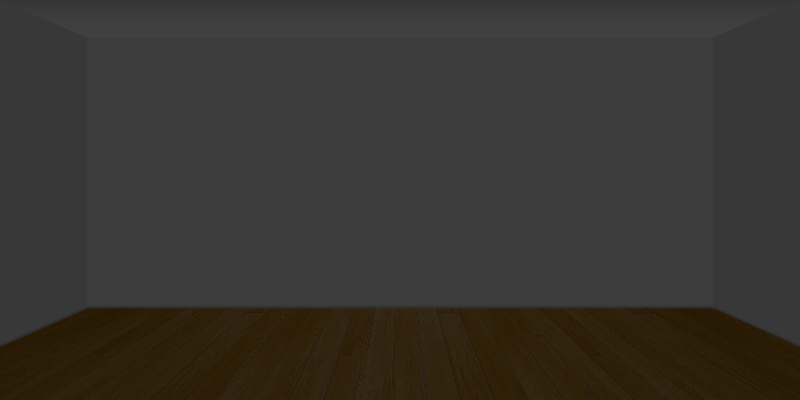
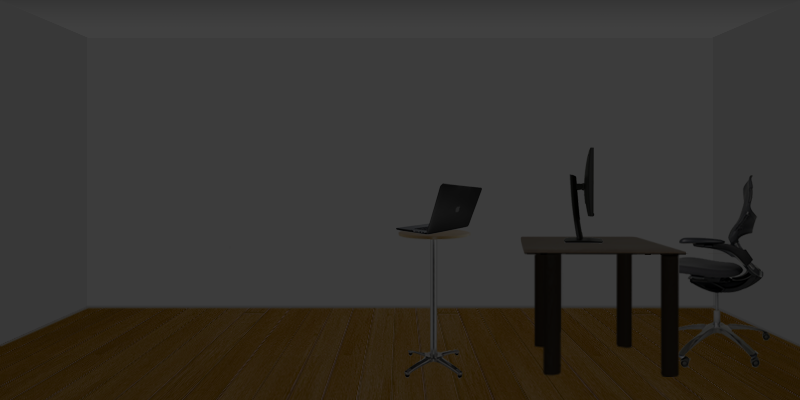
Re-create 3rd room and add objects inside

diff --git a/lib/confetti.js b/lib/confetti.js
@@ -1,67 +1,67 @@
-let canvas = document.getElementById('confetti');
+// let canvas = document.getElementById('confetti');
 
-canvas.setAttribute("width", "800");
-canvas.setAttribute("height", "800");
+// canvas.setAttribute("width", "800");
+// canvas.setAttribute("height", "800");
 
-let ctx = canvas.getContext('2d');
-let pieces = [];
-let numPieces = 50;
-let last = Date.now();
+// let ctx = canvas.getContext('2d');
+// let pieces = [];
+// let numPieces = 50;
+// let last = Date.now();
 
-function randomColor() {
-    let colors = ['#f00', '#0f0', '#00f', '#0ff', '#f0f'];
-    return colors[Math.floor(Math.random() * colors.length)];
-}
+// function randomColor() {
+//     let colors = ['#f00', '#0f0', '#00f', '#0ff', '#f0f'];
+//     return colors[Math.floor(Math.random() * colors.length)];
+// }
 
-function update () {
-    let now = Date.now(), dt = now - last;
+// function update () {
+//     let now = Date.now(), dt = now - last;
 
-    for (let i = pieces.length - 1; i >= 0; i--) {
-        let p = pieces[i];
+//     for (let i = pieces.length - 1; i >= 0; i--) {
+//         let p = pieces[i];
 
-        if (p.y > canvas.height) {
-            pieces.splice(i, 1);
-            continue;
-        }
-        p.y += gravity;
-        p.rotation += p.rotationSpeed;
-    }
+//         if (p.y > canvas.height) {
+//             pieces.splice(i, 1);
+//             continue;
+//         }
+//         p.y += gravity;
+//         p.rotation += p.rotationSpeed;
+//     }
 
-    while (pieces.length < numPieces) {
-        pieces.push(new Piece(Math.random() * canvas.width, -20));
-    }
+//     while (pieces.length < numPieces) {
+//         pieces.push(new Piece(Math.random() * canvas.width, -20));
+//     }
 
-    last = now;
-    setTimeout(update, 1);
-}
+//     last = now;
+//     setTimeout(update, 1);
+// }
 
-function draw () {
-    ctx.clearRect(0, 0, canvas.width, canvas.height);
+// function draw () {
+//     ctx.clearRect(0, 0, canvas.width, canvas.height);
 
-    pieces.forEach(function (p) {
-        ctx.save();
-        ctx.fillStyle = p.color;
-        ctx.translate(p.x + p.size / 2, p.y + p.size / 2); // go to center of the piece
-        ctx.rotate(p.rotation); // rotate 
-        ctx.fillRect(-p.size / 2, -p.size / 2, p.size / 2, p.size / 2); // reposition around center of rotation
-        ctx.restore();
-    });
-    requestAnimationFrame(draw);
-}
+//     pieces.forEach(function (p) {
+//         ctx.save();
+//         ctx.fillStyle = p.color;
+//         ctx.translate(p.x + p.size / 2, p.y + p.size / 2); // go to center of the piece
+//         ctx.rotate(p.rotation); // rotate 
+//         ctx.fillRect(-p.size / 2, -p.size / 2, p.size / 2, p.size / 2); // reposition around center of rotation
+//         ctx.restore();
+//     });
+//     requestAnimationFrame(draw);
+// }
 
-function Piece (x, y) {
-    this.x = x;
-    this.y = y;
-    this.size = (Math.random() * 0.5 * 0.75) * 15;
-    this.gravity = (Math.random() * 0.5 * 0.75) * 0.1; // how fast it falls
-    this.rotation = (Math.PI * 2) * Math.random();
-    this.rotationSpeed = (Math.PI * 2) * Math.random() * 0.0005;
-    this.color = randomColor();
-}
+// function Piece (x, y) {
+//     this.x = x;
+//     this.y = y;
+//     this.size = (Math.random() * 0.5 * 0.75) * 15;
+//     this.gravity = (Math.random() * 0.5 * 0.75) * 0.1; // how fast it falls
+//     this.rotation = (Math.PI * 2) * Math.random();
+//     this.rotationSpeed = (Math.PI * 2) * Math.random() * 0.0005;
+//     this.color = randomColor();
+// }
 
-while (pieces.length < numPieces) {
-    pieces.push(new Piece(Math.random() * canvas.width, Math.random() * canvas.height));
-}
+// while (pieces.length < numPieces) {
+//     pieces.push(new Piece(Math.random() * canvas.width, Math.random() * canvas.height));
+// }
 
-update();
-draw();
+// update();
+// draw();

diff --git a/lib/items.js b/lib/items.js
@@ -1,15 +1,3 @@
-
-// function clock() {
-//     let mytime = new Date(2019, 0, 1, 03, 55, 01, 567);
-//     let minutes = mytime.getMinutes();
-//     let hours = mytime.getHours();
-//     let currentTime = "0" + hours + ":" + minutes;
-
-//     document.getElementById("clock").firstChild.nodeValue = currentTime;
-
-// }
-// setInterval(clock);
-
 function mouse() {
     let modal = document.getElementById('mouseModal');
     let close = document.getElementsByClassName("close")[1];
@@ -17,6 +5,31 @@ function mouse() {
     let button = document.getElementById("mouse-close-button");
 
     mouse.onclick = function () {
+        modal.style.display = "block";
+    };
+
+    close.onclick = function () {
+        modal.style.display = "none";
+    };
+
+    button.onclick = function () {
+        modal.style.display = "none";
+    };
+
+    window.onclick = function (event) {
+        if (event.target === modal) {
+            modal.style.display = "none";
+        }
+    };
+}
+
+function projector() {
+    let modal = document.getElementById('projectorModal');
+    let close = document.getElementsByClassName("close")[2];
+    let projector = document.getElementById("projector");
+    let button = document.getElementById("projector-close-button");
+
+    projector.onclick = function () {
         modal.style.display = "block";
     };
 

diff --git a/index.html b/index.html
@@ -114,8 +114,23 @@
         <button id="mouse-close-button">Got it!</button>
     </div>
 
-
-
+    <img id="projector" class="hidden" src="images/projector.png" onclick="projector()">
+    <div id="projectorModal" onclick="projector()">
+        <div class="projector-content">
+            <div class="close">&times;</div>
+            <p class="code-text">
+                * This function duplicateLetters(string), takes in a phrase, `string` and returns <br />
+                all the duplicate letters that appear in the `string`. <br />
+            </p>
+            <p class="code-question">
+                def duplicateLetters(string)  <br />
+                &nbsp;&nbsp;&nbsp; new_str = "" <br />
+                end<br />
+                duplicateLetters("memo: we do not make apps"); <br />
+            </p>
+        </div>
+        <button id="projector-close-button">Got it!</button>
+    </div>
    
 </body>
 </html>

diff --git a/lib/rooms.js b/lib/rooms.js
@@ -7,7 +7,7 @@ function checkRoom() {
     let room = document.getElementById("roomChange");
     let mouse = document.getElementById("mouse");
     let solve = document.getElementById('solveModal');
-    // let lock = document.getElementById("lock");
+    let projector = document.getElementById("projector");
 
     if ((roomType === "light") && (room.src.includes(rooms[1].slice(1, rooms[1].length)))) {
         mouse.className = "";
@@ -17,11 +17,11 @@ function checkRoom() {
         solve.className = "";
     }
 
-    // if ((roomType === "light") && (room.src.includes(rooms[2].slice(1, rooms[2].length)))) {
-    //     lock.className = "";
-    // } else {
-    //     lock.className = "hidden";
-    // }
+    if ((roomType !== "light") && (room.src.includes(rooms[2].slice(1, rooms[2].length)))) {
+        projector.className = "";
+    } else {
+        projector.className = "hidden";
+    }
 }
 setInterval(checkRoom, 10);
 

diff --git a/modal.css b/modal.css
@@ -104,7 +104,7 @@
   position: absolute;
   right: 460px;
   top: 352px;
-  cursor: pointer;
+  /* cursor: pointer; */
 }
 
 .hidden {
@@ -190,6 +190,41 @@
   color: white; 
 }
 
-/* #confetti {
-  z-index: 10;
-} */
+#projectorModal {
+  display: none;
+  position: fixed;
+  z-index: 1; 
+  left: 0;
+  top: 0;
+  width: 100%; 
+  height: 100%; 
+  overflow: auto; 
+  background-color: rgb(0,0,0); 
+  background-color: rgba(0,0,0,0.4); 
+}
+
+.projector-content {
+  background-color: black;
+  margin: 7% auto;
+  padding: 20px;
+  border: 1px solid #888;
+  width: 53%;
+  height: 46%;
+}
+
+#projector {
+  position: absolute;
+  right: 460px;
+  top: 352px;
+  /* cursor: pointer; */
+}
+
+#projector-close-button {
+  position: absolute;
+  top: 38%;
+  right: 35%;
+  font-size: 32px;
+  cursor: pointer;
+  background-color: #065fc5;
+  color: white; 
+}

diff --git a/style.css b/style.css
@@ -123,12 +123,6 @@ a {
     left: 24%;
 }
 
-/* a {
-    text-decoration: none;
-    display: inline-block;
-    padding: 8px 16px;
-} */
-
 a:hover {
   color: black;
 }

diff --git a/rooms.css b/rooms.css
@@ -49,7 +49,3 @@
     cursor: pointer;
 }
 
-area { 
-  /* display: none; */
-  border: 1px solid red;
-}
